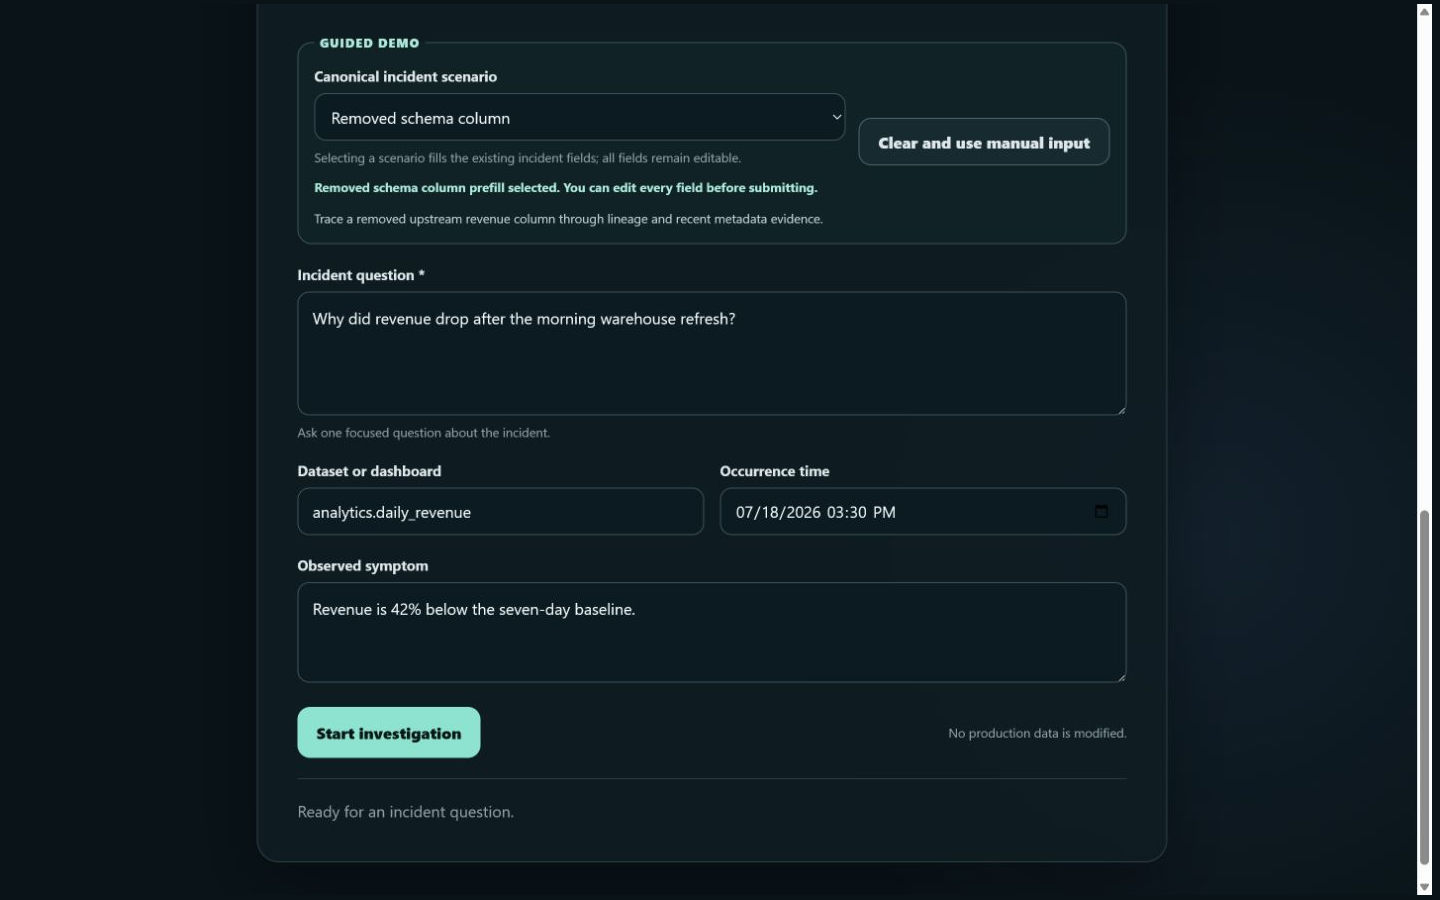
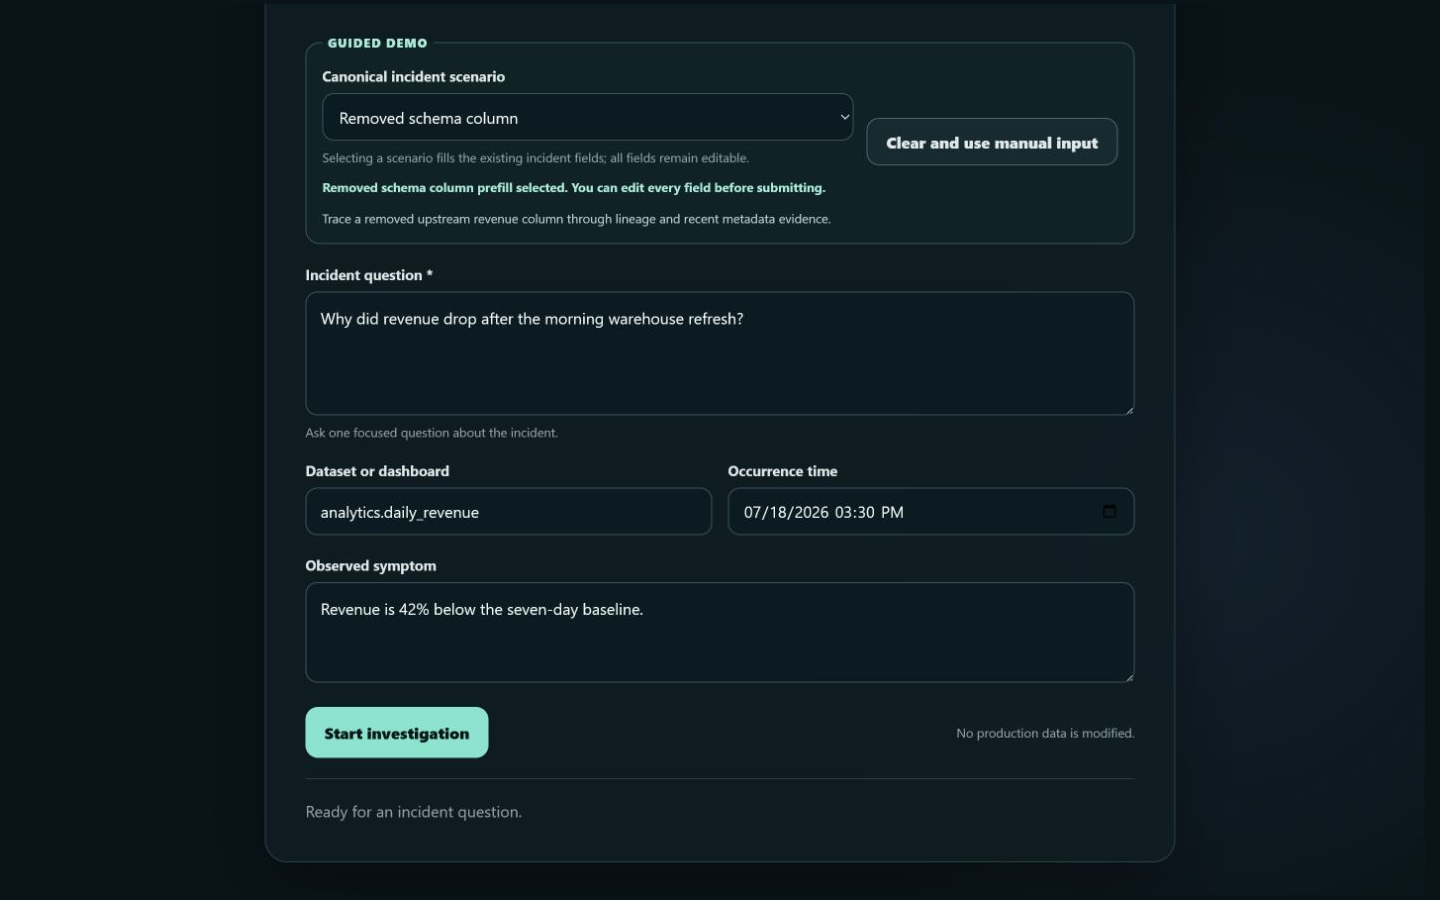
docs: fix Phase 8.8 QA blockers

diff --git a/docs/SESSION_LOG.md b/docs/SESSION_LOG.md
@@ -6217,3 +6217,75 @@ availability boundary remain unchanged.
 
 After the one additive commit, normal push, single Draft PR, and exact-head CI `SUCCESS` terminal
 gates, hand the exact head to independent Windows QA. Do not merge or transition the PR to Ready.
+
+## 2026-07-27 — Phase 8.8 targeted QA correction
+
+### Objective
+
+Resolve the two canonical `FAIL / DO NOT MERGE` blockers on exact Phase 8.8 head
+`e1573bbdf5d1d0d14b5ae485c8ebe1d259efeaa1`: align one stale challenge-positioning sentence and
+remove the browser-native scrollbar from the intake asset without creating another public incident.
+
+### Completed
+
+- Replaced the stale requirements statement with the exact current position: **Open / Wildcard** is
+  primary and strongest; **Agents That Do Real Work** is conditional and secondary only if organizers
+  accept a bounded read-only investigative workflow; no Devpost challenge form selection is claimed.
+- Reused the real public credential-free fixture intake state, selected **Removed schema column**, and
+  verified `Fixture metadata · Ready`, populated synthetic fields, **Start investigation**, and the
+  pre-Start ready message in the official in-app Browser. **Start investigation** was never activated.
+- The Browser screenshot API timed out on two fresh tabs at full app width and on a smaller panel.
+  Rather than simulate or recreate UI, the correction reused the existing real public capture:
+  removed only its captured 15-pixel browser-native scrollbar strip and centered all remaining
+  1410 × 891 app pixels on a sampled page-background 1440 × 900 canvas.
+- Visually inspected the corrected image at original resolution. Preset, question, dataset, occurrence
+  time, symptom, Start button, production-safety note, and ready state remain readable; no native
+  scrollbar, browser chrome, account/session surface, credential, or private endpoint remains.
+- Kept the other four screenshots byte-identical and left their captions unchanged.
+
+### Files changed
+
+`docs/DEVPOST_REQUIREMENTS.md`; `docs/IMPLEMENTATION_PLAN.md`; `docs/SESSION_LOG.md`;
+`docs/demo-assets/README.md`; and
+`docs/demo-assets/01-intake-removed-schema-column.png`.
+
+### Decisions
+
+Use a bounded mechanical correction of the already-authentic public capture after the official
+Browser capture backend failed repeatedly. Exclude only browser chrome, preserve every app-content
+pixel, and disclose the exact 15-pixel exclusion plus background padding. Do not create another
+incident, alter the other screenshots, or broaden the copy change.
+
+### Validation performed
+
+- Corrected intake image: true PNG signature, 1440 × 900, 241,215 bytes, SHA-256
[1 lines of base64/hex data omitted]
+  `IHDR`, `sRGB`, `gAMA`, `pHYs`, `IDAT`, and `IEND`; no text, EXIF, timestamp, or ICC metadata.
+- The corrected right-edge maximum average brightness is 22.4, proving the prior bright native
+  scrollbar strip is absent. Original-resolution visual inspection confirms content/caption
+  alignment.
+- The four untouched screenshots match the prior SHA-256 values exactly.
+- Affected Markdown Prettier, local links, exact challenge-claim alignment, `git diff --check`,
+  exact path/residue allowlist, added-line secret/private-path/email/conflict/debug scan, and
+  task-owned process/port checks pass.
+- Ports `3001` and `5173` have zero listeners; no task-owned repository runtime process or QA temp
+  asset remains.
+
+### Validation intentionally deferred
+
+The full suite, build, evaluation, public smoke, another incident, runtime/source/API/workflow/
+package/lock/version changes, every GCP/deployment/billing mutation, live DataHub/model work, Devpost
+registration/form/upload/submission, video, tag, Release, PR Ready transition, and merge.
+
+### Known issues
+
+The public service remains fixture-only and process-local. Authorized live/judge DataHub MCP evidence
+remains `PARTIAL`, and judging-period availability remains unresolved under the earlier cost-control
+stop boundary. This correction does not change those retained Phase 8.7/8.8 limitations.
+
+### Exact next step
+
+Run the final five-path formatting/link/PNG/diff/secret/residue/process/port audit, create one additive
+commit, normal-push the existing branch, update only Draft PR #57 with correction evidence, require
+exact-new-head PR CI `SUCCESS`, and return the clean exact head to the same Windows QA. Do not mark
+Ready or merge.

diff --git a/docs/IMPLEMENTATION_PLAN.md b/docs/IMPLEMENTATION_PLAN.md
@@ -6664,3 +6664,38 @@ Local result:
   useful judging evidence without persisting an ephemeral incident identifier.
 - Preserved the Phase 8.7 live-source/digest boundary, current-main identity, deployment and
   cost/shutdown evidence, C11 qualified status, and all unresolved submission/access/live-MCP gates.
+
+#### Phase 8.8 QA correction — aligned challenge position and clean intake asset
+
+Status: canonical Windows QA returned `FAIL / DO NOT MERGE` on exact Phase 8.8 head
+`e1573bbdf5d1d0d14b5ae485c8ebe1d259efeaa1` with two bounded blockers: one stale
+challenge-positioning sentence and a browser-native scrollbar in the intake screenshot.
+
+Objective: align the stale requirements sentence with C23 and the submission draft, and replace only
+the intake asset with a true 1440 × 900 app-only PNG that preserves the pre-Start fixture state without
+creating another incident.
+
+Minimum files:
+
+- `docs/DEVPOST_REQUIREMENTS.md` for the single positioning correction.
+- `docs/demo-assets/01-intake-removed-schema-column.png` for the clean intake asset.
+- `docs/demo-assets/README.md` only to disclose the exact mechanical scrollbar exclusion/padding.
+- this plan and `docs/SESSION_LOG.md` for the canonical QA correction state.
+
+Acceptance:
+
+- **Open / Wildcard** is the primary and strongest current fit; **Agents That Do Real Work** is
+  conditional and secondary only if organizers accept a bounded read-only investigative workflow;
+  no Devpost challenge form selection is claimed.
+- The replacement intake image is a real 1440 × 900 PNG containing only the selected synthetic
+  **Removed schema column** pre-Start app state, with no browser/Windows/UA scrollbar or chrome.
+- The other four screenshots remain byte-identical; no incident is created and no public smoke is
+  rerun.
+- Affected Markdown formatting/links/claim consistency and exact PNG signature/dimensions/metadata/
+  visual-content checks pass, together with bounded diff/path/secret/residue/process/port checks.
+- Create one additive commit, push normally to the existing branch, update only Draft PR #57, require
+  exact-new-head PR CI `SUCCESS`, and leave the worktree/upstream clean. Do not mark Ready or merge.
+
+Deferred: full suite, build, evaluation, runtime/source/API/workflow/package/lock/version changes,
+every GCP/deployment/billing mutation, Devpost registration/form/upload/submission, video work, live
+DataHub/model validation, another public incident, a second PR, PR Ready transition, and merge.

diff --git a/docs/demo-assets/README.md b/docs/demo-assets/README.md
@@ -2,15 +2,17 @@
 
 These PNGs were captured on 2026-07-27 ICT from the existing public credential-free fixture UI at a
 stable 1440 × 900 viewport. The Browser backend supplied JPEG screenshot bytes, so the frames were
-content-preservingly re-encoded as PNG; the intake frame's viewport-edge pixels were centered on the
-same 1440 × 900 canvas using its sampled page background. No UI content was generated, added, or
+content-preservingly re-encoded as PNG. For the corrected intake asset, only the captured 15-pixel
+browser-native scrollbar strip was excluded; the remaining 1410 × 891 app pixels were centered on the
+same 1440 × 900 canvas using its sampled page background. No app UI content was generated, added, or
 removed. One canonical **Removed schema column** incident produced all terminal screens. They contain
 only synthetic app content and no browser chrome, account surface, session state, credential, or
 private endpoint.
 
 The incident UUID and activity timestamps visible in the completed UI are run-specific display facts,
 not stable identifiers or durable links. The frames preserve the captured app pixels apart from the
-format conversion and disclosed intake-edge padding above; no generated or recreated UI is included.
+format conversion and disclosed intake scrollbar exclusion/edge padding above; no generated or
+recreated UI is included.
 
 ## 1. Guided incident intake
 

diff --git a/docs/DEVPOST_REQUIREMENTS.md b/docs/DEVPOST_REQUIREMENTS.md
@@ -283,9 +283,9 @@ prize, and an individual can receive at most one feedback prize. The Grand Prize
 DataHub Town Hall presentation and promotion; challenge winners receive promotion.
 [[O](https://datahub.devpost.com/)] [[R §8](https://datahub.devpost.com/rules), accessed 2026-07-24]
 
-Positioning recommendation: the current incident-investigation workflow most directly fits **Agents
-That Do Real Work** and can also fit **Open / Wildcard**. This is a recommendation, not a rule or a
-track selection already made.
+Positioning recommendation: **Open / Wildcard** is the primary and strongest current fit.
+**Agents That Do Real Work** is conditional and secondary only if organizers accept a bounded
+read-only investigative workflow. No Devpost challenge form selection has been made.
 
 Official Resources lists:
 
